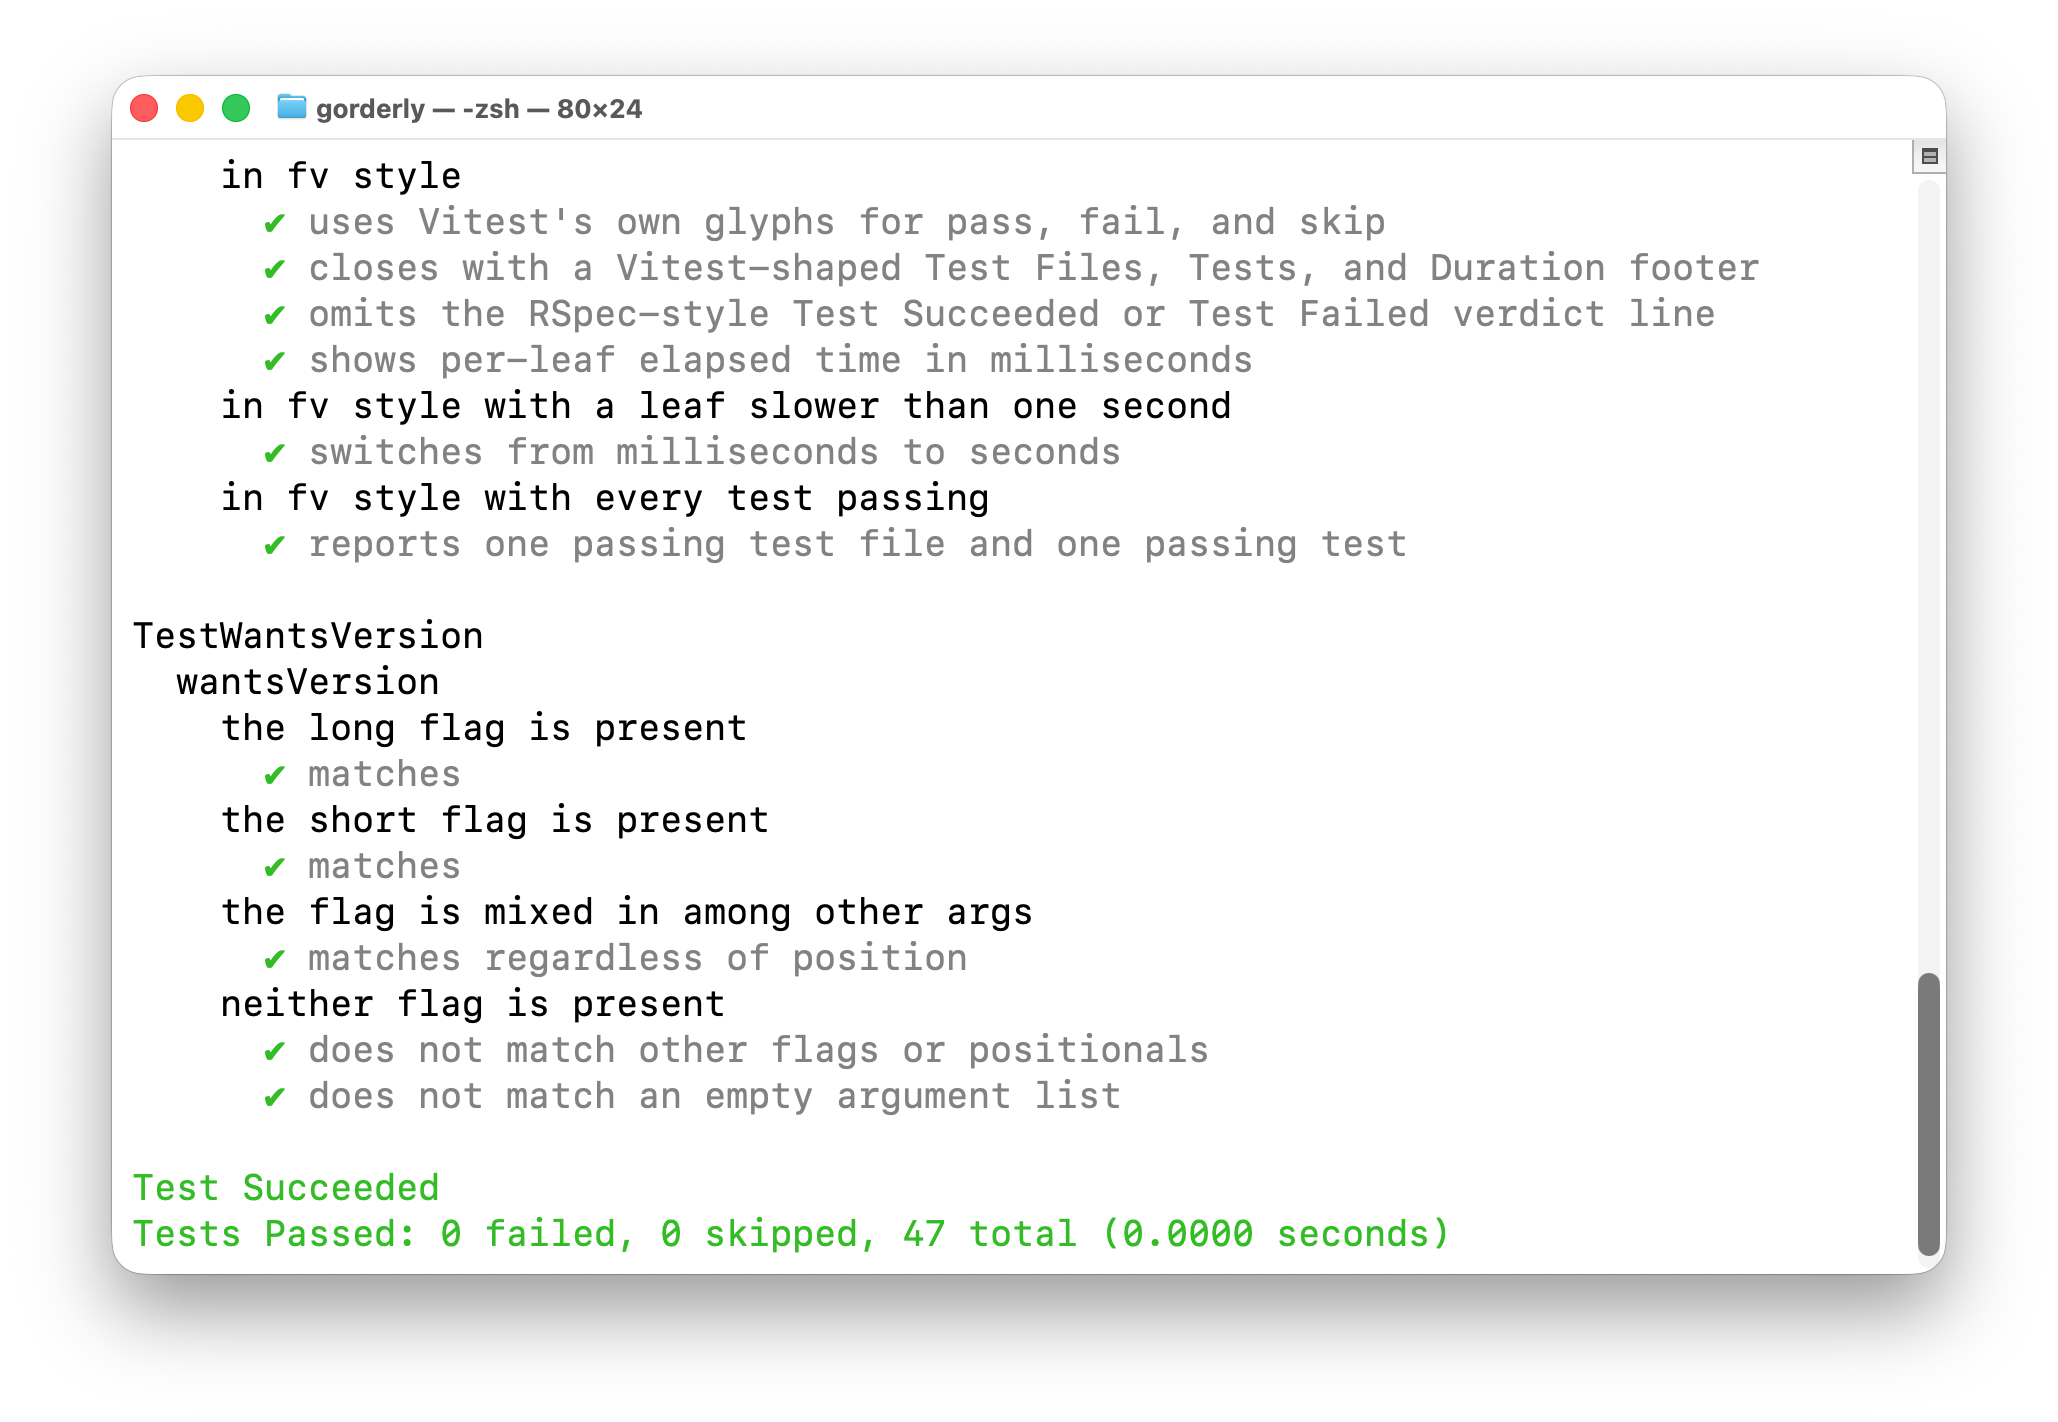
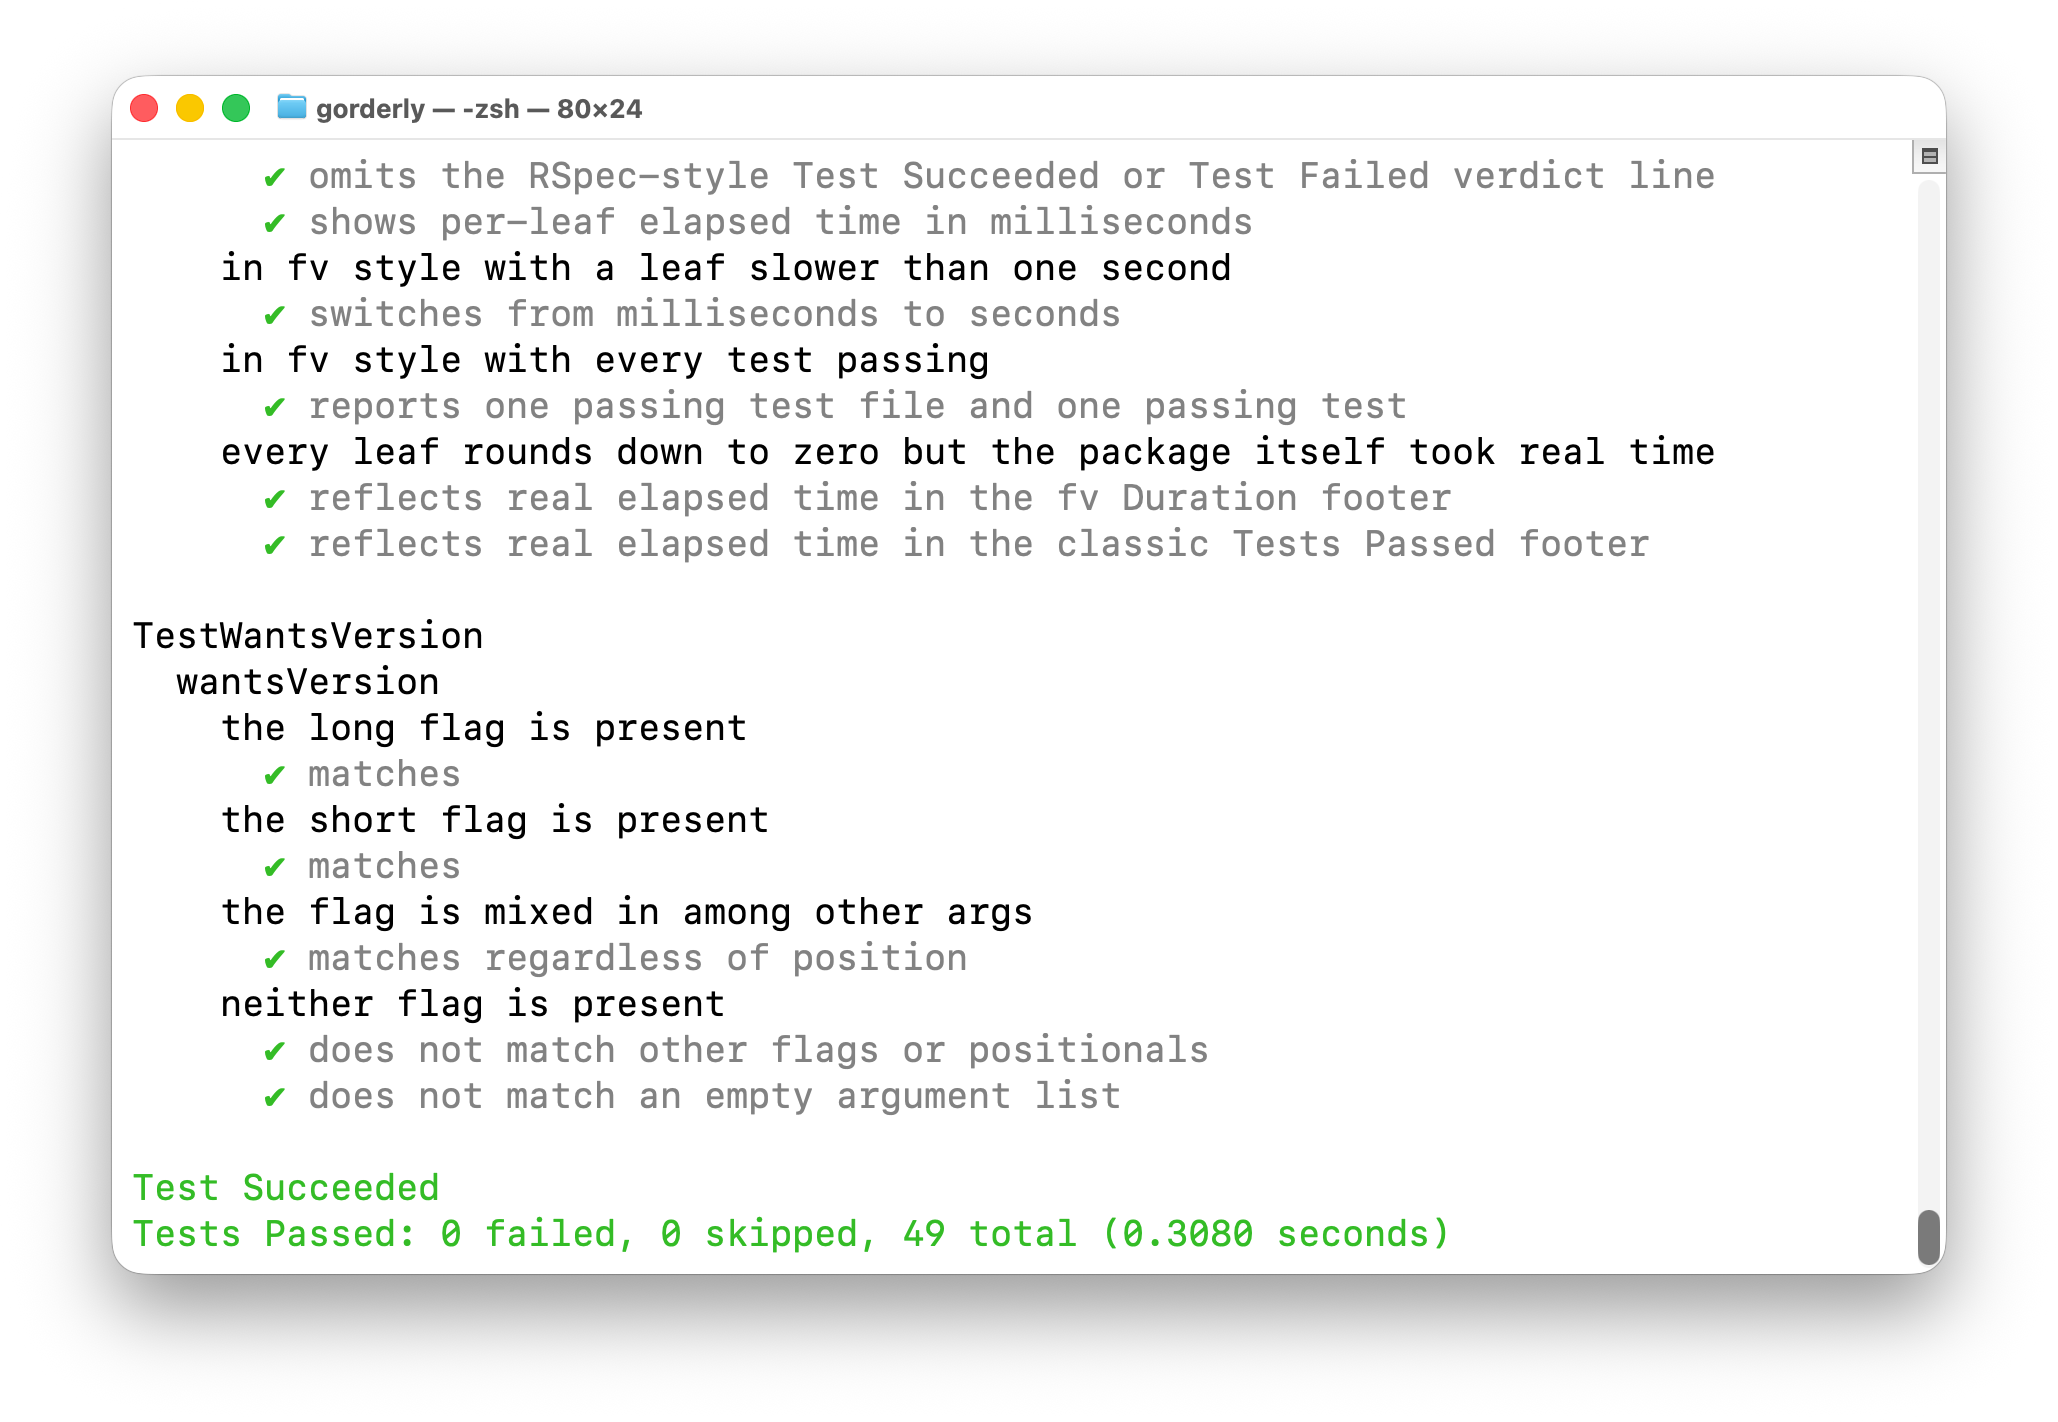
Show elapsed time.

Changed region(s): [[0.0933, 0.0928, 0.8397, 0.4023], [0.9329, 0.6807, 0.964, 0.8664], [0.7153, 0.0928, 0.7775, 0.1547]]

diff --git a/render_test.go b/render_test.go
@@ -318,13 +318,13 @@ func TestRender(t *testing.T) {
 				}}
 			}
 
-			it("reflects the package's real elapsed time in the fv Duration footer", func() {
+			it("reflects real elapsed time in the fv Duration footer", func() {
 				var buf bytes.Buffer
 				_, _ = Render(samplePkgs(), StyleFv, &buf, false)
 				expect(buf.String(), t).To(Contain("Duration  363ms"))
 			})
 
-			it("reflects the package's real elapsed time in the classic Tests Passed footer", func() {
+			it("reflects real elapsed time in the classic Tests Passed footer", func() {
 				var buf bytes.Buffer
 				_, _ = Render(samplePkgs(), StyleClassic, &buf, false)
 				expect(buf.String(), t).To(Contain("(0.3630 seconds)"))
